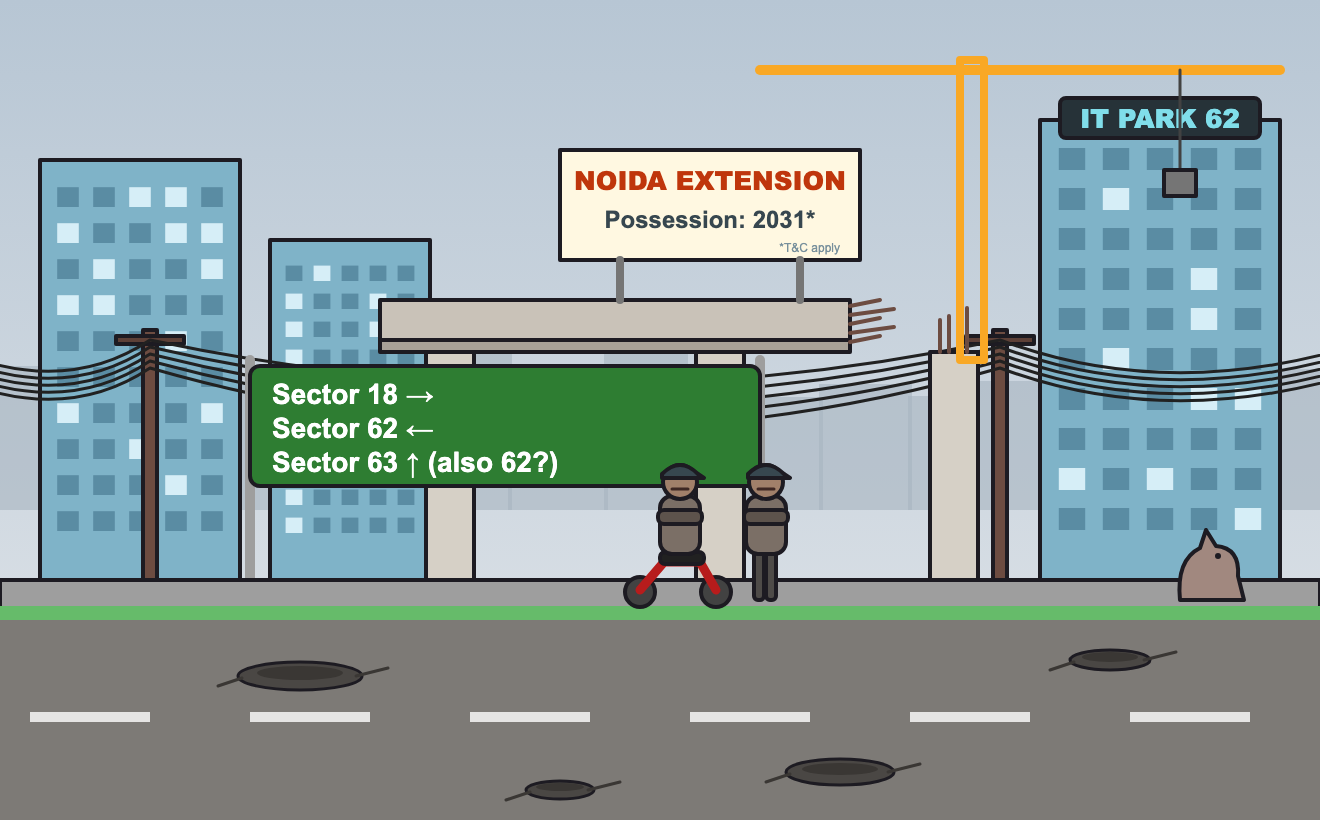
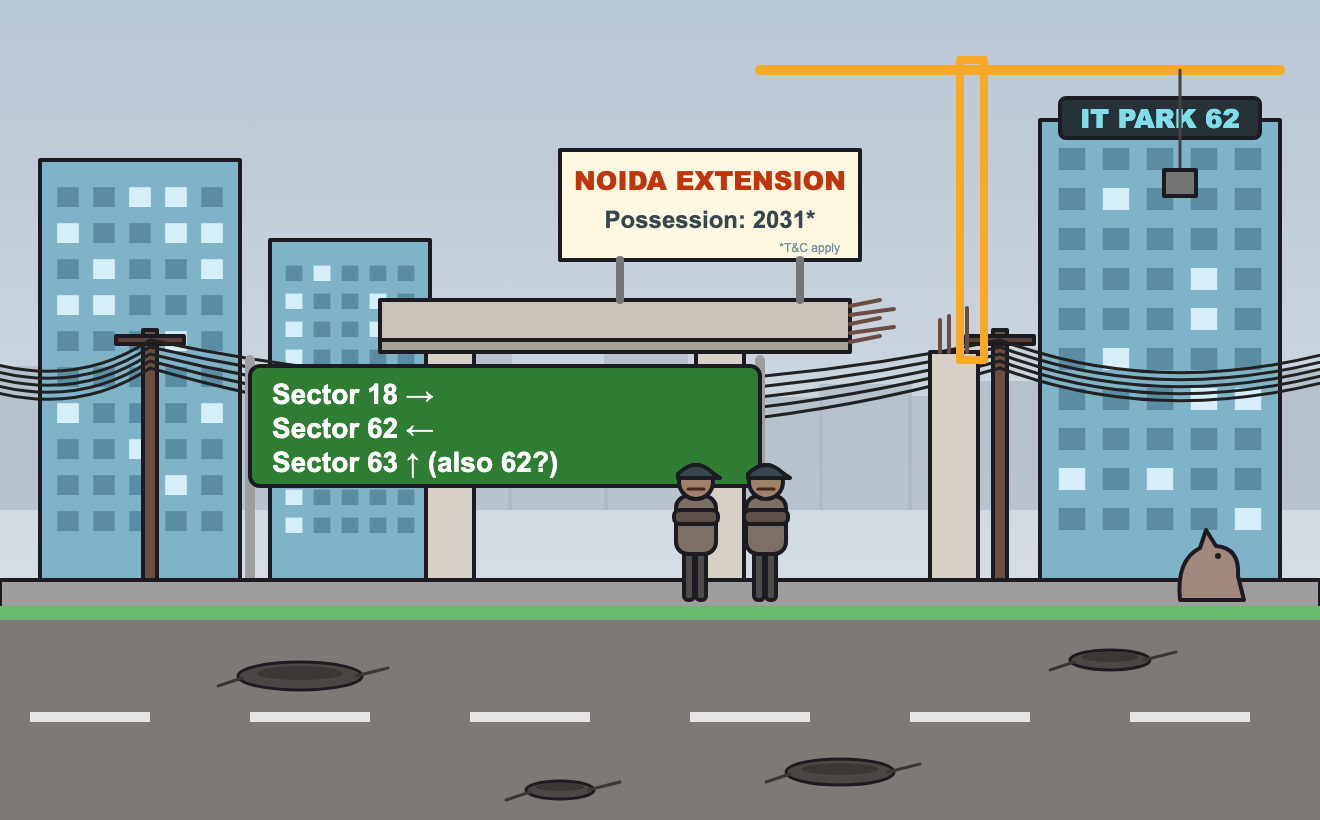
Noida background: no bike; both goons stand on the footpath

Changed region(s): [[0.4659, 0.5488, 0.5591, 0.7622]]

diff --git a/Art/src/bgs.py b/Art/src/bgs.py
@@ -117,7 +117,7 @@ def noida():
         s += f'<ellipse cx="{cx}" cy="{cy}" rx="{rx}" ry="{ry}" fill="#4a4744" stroke="{OUT}" stroke-width="3"/>'
         s += f'<ellipse cx="{cx}" cy="{cy - 3}" rx="{rx * 0.7:.0f}" ry="{ry * 0.5:.0f}" fill="#3a3734"/>'
         s += line(cx + rx - 6, cy, cx + rx + 26, cy - 8, 3, '#3a3734') + line(cx - rx + 4, cy + 2, cx - rx - 20, cy + 10, 3, '#3a3734')
-    # goons on the footpath: one on a parked bike, one with folded arms (background flavour, flat and muted)
+    # two goons on the footpath with folded arms (background flavour, flat and muted)
     def goon(x, sitting=False):
         g = ''
         if not sitting:
@@ -128,9 +128,7 @@ def noida():
         g += path(f'M {x - 12} 474 Q {x + 6} 456 {x + 24} 474 L {x + 30} 478 L {x - 12} 478 Z', '#37474f')                # cap
         g += line(x - 2, 489, x + 14, 489, 3, '#3e2723')                                                                    # moustache
         return g
-    s += circle(640, 592, 15, '#424242') + circle(716, 592, 15, '#424242')                                                 # bike wheels
-    s += path('M 640 590 L 664 562 L 700 562 L 716 590', 'none', stroke='#b71c1c', stroke_width='9') + rect(660, 552, 44, 12, '#212121', rx=5)
-    s += goon(674, sitting=True) + goon(760)
+    s += goon(690) + goon(760)
     # stray dog, sitting
     s += path('M 1180 600 Q 1176 560 1200 548 L 1206 530 L 1216 546 Q 1240 548 1238 576 L 1244 600 Z', '#a1887f') + circle(1218, 556, 3, OUT, line=False)
     return svg(s)
